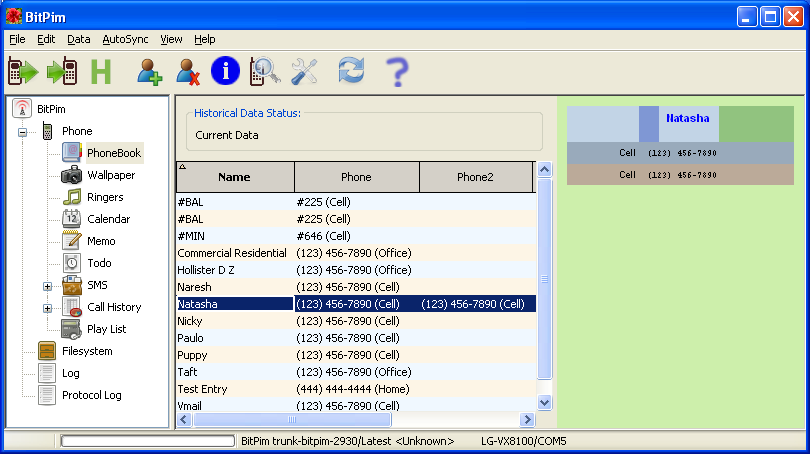
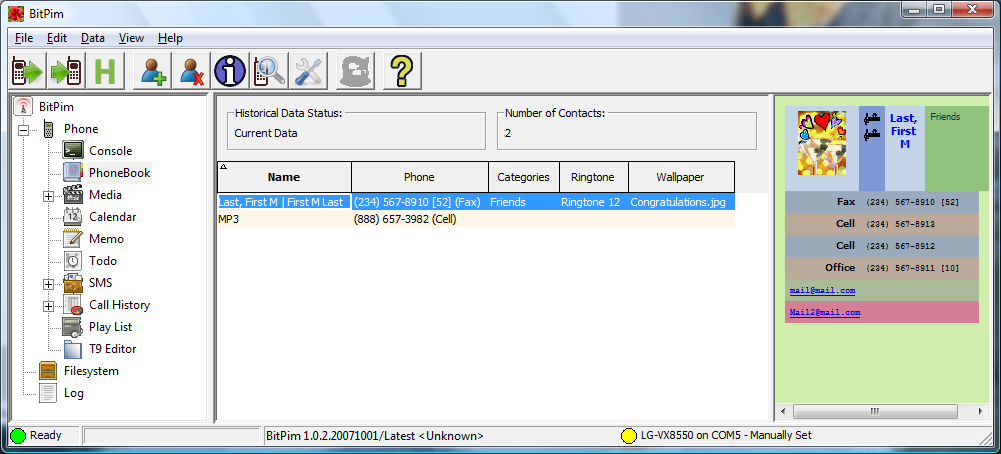
Improvement: display contact count
git-svn-id: svn://svn.code.sf.net/p/bitpim/code/trunk/bitpim@4417 4404a10c-ff0d-0410-9031-a1dde6cb222d

diff --git a/src/phonebook.py b/src/phonebook.py
@@ -564,7 +564,6 @@ class PhoneWidget(wx.Panel, widgets.BitPimWidget):
         self.update_sash=False
         # keep this around while we exist
         self.categorymanager=CategoryManager
-##        self.SetBackgroundColour("ORANGE")
         split=wx.SplitterWindow(self, -1, style=wx.SP_3D|wx.SP_LIVE_UPDATE)
         split.SetMinimumPaneSize(20)
         self.mainwindow=mainwindow
@@ -603,9 +602,18 @@ class PhoneWidget(wx.Panel, widgets.BitPimWidget):
         static_bs=wx.StaticBoxSizer(wx.StaticBox(self.table_panel, -1,
                                                  'Historical Data Status:'),
                                     wx.VERTICAL)
-        self.historical_data_label=wx.StaticText(self, -1, 'Current Data')
+        self.historical_data_label=wx.StaticText(self.table_panel, -1,
+                                                 'Current Data')
         static_bs.Add(self.historical_data_label, 1, wx.EXPAND|wx.ALL, 5)
         hbs.Add(static_bs, 1, wx.EXPAND|wx.ALL, 5)
+        # show the number of contacts
+        static_bs=wx.StaticBoxSizer(wx.StaticBox(self.table_panel, -1,
+                                                 'Number of Contacts:'),
+                                    wx.VERTICAL)
+        self.contactcount_label=wx.StaticText(self.table_panel, -1, '0')
+        static_bs.Add(self.contactcount_label, 1, wx.EXPAND|wx.ALL, 5)
+        hbs.Add(static_bs, 1, wx.EXPAND|wx.ALL, 5)
+        # main sizer
         vbs=wx.BoxSizer(wx.VERTICAL)
         vbs.Add(hbs, 0, wx.EXPAND|wx.ALL, 5)
         vbs.Add(self.table, 1, wx.EXPAND, 0)
@@ -1159,6 +1167,10 @@ class PhoneWidget(wx.Panel, widgets.BitPimWidget):
         dict['categories']=self.mainwindow.database.loadlist("categories")
             
 
+    def _updatecount(self):
+        # Update the count of contatcs
+        self.contactcount_label.SetLabel('%(count)d'%{ 'count': len(self._data) })
+
     def populate(self, dict, savetodb=True):
         if self.read_only and savetodb:
             wx.MessageBox('You are viewing historical data which cannot be changed or saved',
@@ -1179,6 +1191,7 @@ class PhoneWidget(wx.Panel, widgets.BitPimWidget):
         self._data=pb.copy()
         self.dt.OnDataUpdated()
         self.modified=savetodb
+        self._updatecount()
 
     def _save_db(self, dict):
         self.mainwindow.database.savemajordict("phonebook", database.extractbitpimserials(dict["phonebook"]))
@@ -1191,6 +1204,7 @@ class PhoneWidget(wx.Panel, widgets.BitPimWidget):
                              style=wx.OK|wx.ICON_ERROR)
         else:
             self._save_db(dict)
+            self._updatecount()
         return dict
 
     def _ensure_unicode(self, data):
